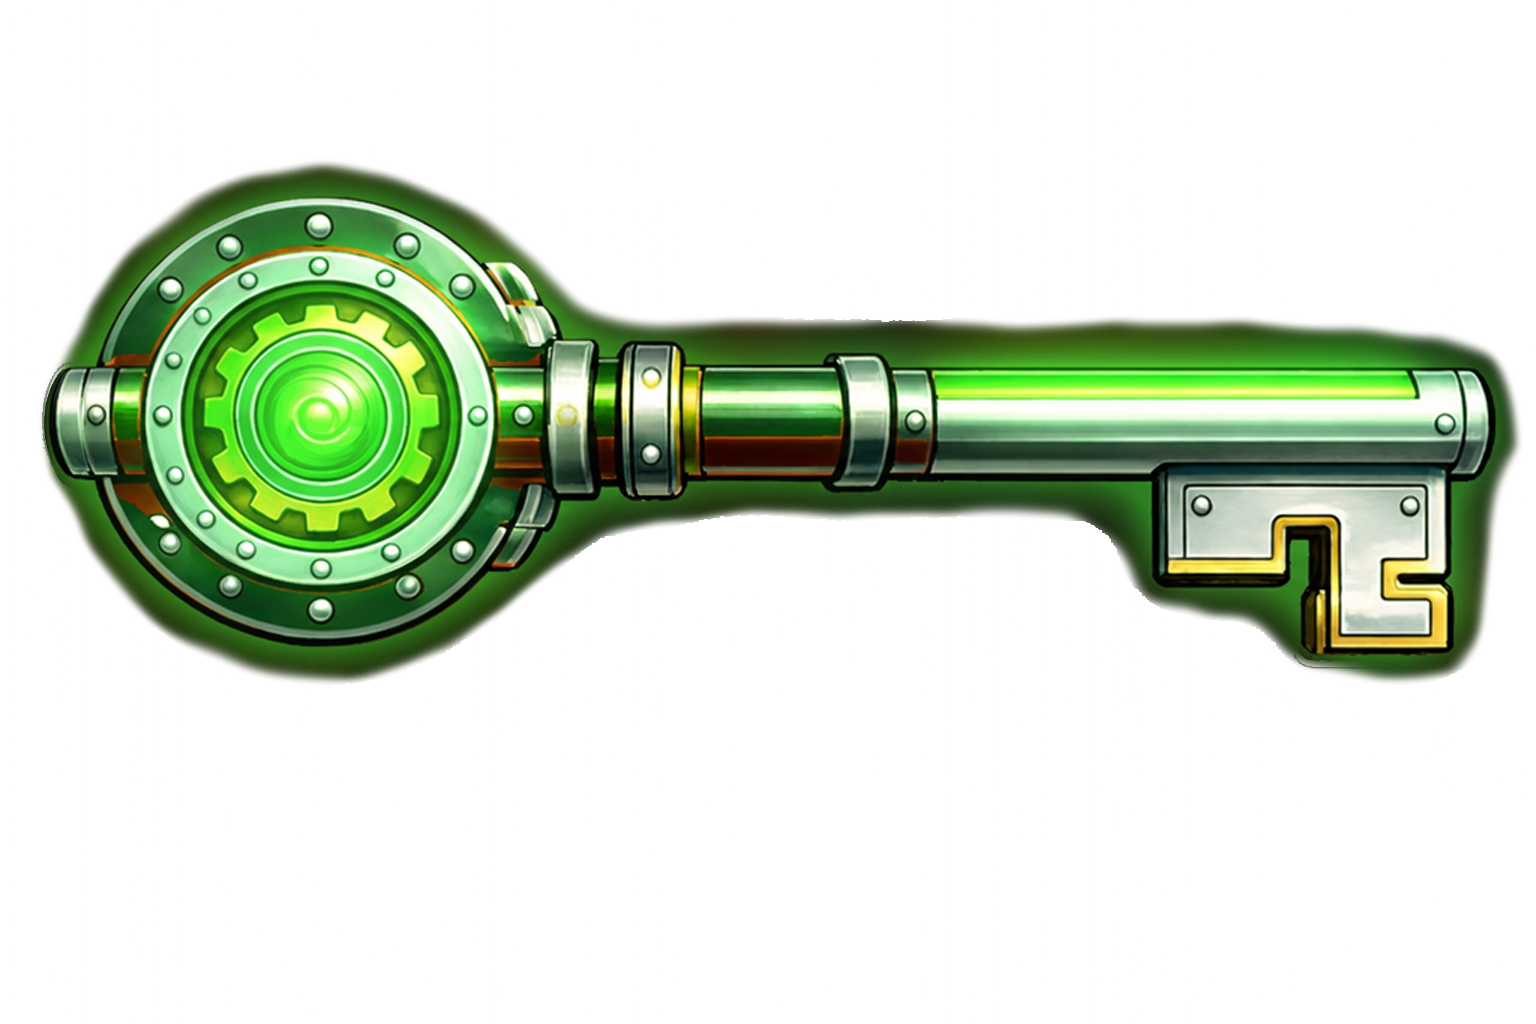
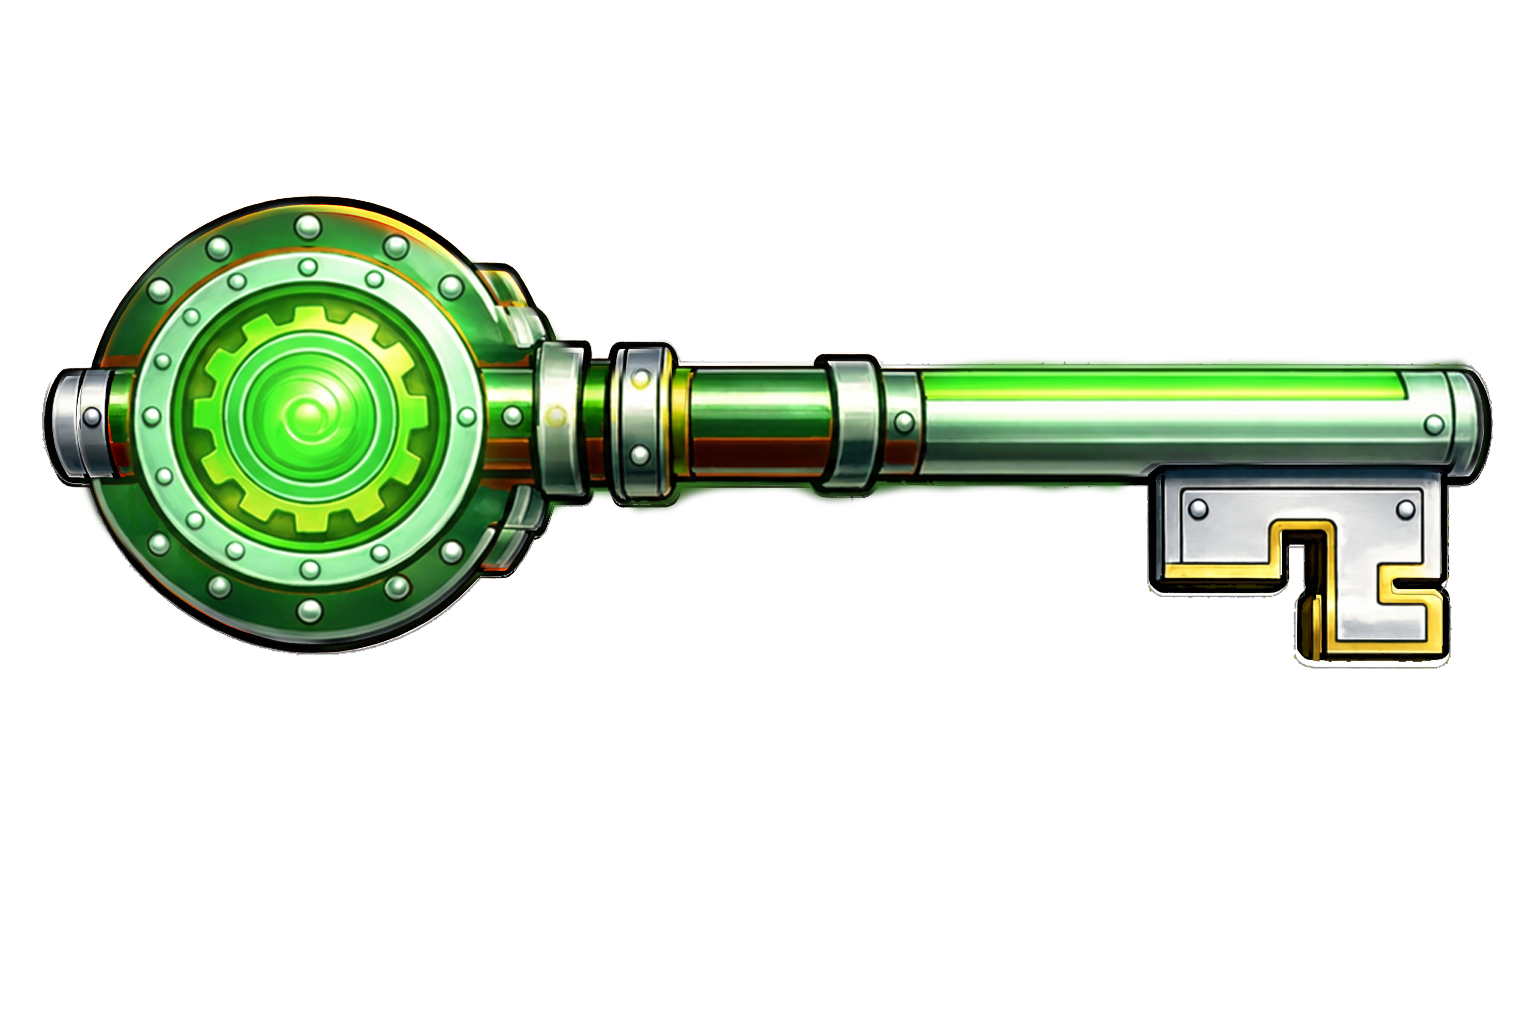
fix: key only between word and hints; remove key from vault; theme modal polish
- Remove key overlay from VaultLogo (key no longer on vault)
- Homepage: single key between word and first hint, uses getThemeKeyImage, click opens theme modal
- Theme modal: Un + lock only (no 'theme of the week'), subtitle 'Can you unlock the theme...', key 2x size

Changed region(s): [[0.0312, 0.1562, 1.0, 0.6875]]

diff --git a/client/src/components/VaultLogo.tsx b/client/src/components/VaultLogo.tsx
@@ -1,5 +1,4 @@
 import React, { useState, useEffect, useRef, useCallback } from 'react';
-import { getThemeKeyImage } from '../utils/themeMessages';
 
 // Vault unlock animation sequence (for 80%+ correct theme guesses)
 const VAULT_UNLOCK_SEQUENCE = [
@@ -56,8 +55,6 @@ interface VaultLogoProps {
   currentAnimationFrame?: string;
   // Toggle to show "Un" overlay text
   showUnText?: boolean;
-  // Show key overlay for theme access
-  showKey?: boolean;
   // For theme modal: trigger animation based on score
   animateForScore?: number | null;
   onScoreAnimationComplete?: () => void;
@@ -76,7 +73,6 @@ export const VaultLogo: React.FC<VaultLogoProps> = ({
   themeGuessData,
   currentAnimationFrame,
   showUnText = true,
-  showKey = false,
   animateForScore,
   onScoreAnimationComplete
 }) => {
@@ -364,24 +360,6 @@ export const VaultLogo: React.FC<VaultLogoProps> = ({
     transition: 'opacity 0.1s ease-in-out'
   };
 
-  const keyImage = showKey
-    ? getThemeKeyImage({
-        hasGuessedToday: themeGuessData?.hasGuessedToday,
-        isCorrectGuess: themeGuessData?.isCorrectGuess,
-        confidencePercentage: themeGuessData?.confidencePercentage ?? null,
-        highestConfidencePercentage: themeGuessData?.highestConfidencePercentage ?? null
-      })
-    : null;
-
-  const keyImageStyle: React.CSSProperties = {
-    position: 'absolute',
-    inset: 0,
-    width: '100%',
-    height: '100%',
-    objectFit: 'contain',
-    pointerEvents: 'none',
-    zIndex: 2
-  };
 
   // Match original UnPrefix text sizes - smaller, proportional to original diamond
   const getUnTextSize = () => {
@@ -509,22 +487,22 @@ export const VaultLogo: React.FC<VaultLogoProps> = ({
             0%, 100% {
               opacity: 1;
               transform: rotate(var(--cta-rotation, 0deg)) scale(1);
-              filter: brightness(1) drop-shadow(0 4px 10px rgba(26, 35, 126, 0.35));
+              filter: brightness(1);
             }
             25% {
               opacity: 0.95;
               transform: rotate(calc(var(--cta-rotation, 0deg) + 5deg)) scale(1.04);
-              filter: brightness(1.08) drop-shadow(0 6px 16px rgba(26, 35, 126, 0.45));
+              filter: brightness(1.08);
             }
             50% {
               opacity: 0.9;
               transform: rotate(var(--cta-rotation, 0deg)) scale(1.08);
-              filter: brightness(1.12) drop-shadow(0 8px 20px rgba(26, 35, 126, 0.55));
+              filter: brightness(1.12);
             }
             75% {
               opacity: 0.95;
               transform: rotate(calc(var(--cta-rotation, 0deg) - 5deg)) scale(1.04);
-              filter: brightness(1.08) drop-shadow(0 6px 16px rgba(26, 35, 126, 0.45));
+              filter: brightness(1.08);
             }
           }
           
@@ -583,15 +561,6 @@ export const VaultLogo: React.FC<VaultLogoProps> = ({
             style={imageStyle}
             draggable={false}
           />
-          {keyImage && (
-            <img
-              src={keyImage}
-              alt=""
-              aria-hidden="true"
-              style={keyImageStyle}
-              draggable={false}
-            />
-          )}
           {showUnText && (
             <span
               style={{

diff --git a/client/src/App.tsx b/client/src/App.tsx
@@ -24,6 +24,7 @@ import { BonusRoundInline, BonusGuessResult } from './components/BonusRoundInlin
 import { apiClient } from './api/client';
 import { usePlayer } from './hooks/usePlayer';
 import { getApiBaseUrl } from './utils/apiHelpers';
+import { getThemeKeyImage } from './utils/themeMessages';
 
 function App() {
   const {
@@ -659,6 +660,12 @@ function App() {
     ? Math.max(0, 6 - gameState.guesses.length) 
     : 0;
   const shouldShowThemeKey = gameState.isWon && !gameState.isArchivePlay;
+  const themeKeyImage = getThemeKeyImage({
+    hasGuessedToday: themeGuessData?.hasGuessedToday,
+    isCorrectGuess: themeGuessData?.isCorrectGuess,
+    confidencePercentage: themeGuessData?.confidencePercentage ?? null,
+    highestConfidencePercentage: themeGuessData?.highestConfidencePercentage ?? null
+  });
 
   return (
     <div
@@ -778,7 +785,6 @@ function App() {
             onClick={handleThemeClick} 
             themeGuessData={themeGuessData}
             gameComplete={gameState.isComplete}
-            showKey={shouldShowThemeKey}
             celebrateCompletion={celebrateDiamond}
             onCelebrationComplete={handleCelebrationComplete}
             bonusRoundActive={pendingBonusRound && !celebrateDiamond && !bonusRoundComplete}
@@ -1388,18 +1394,31 @@ function App() {
               </div>
 
               {/* Key reward - only for successful solves */}
-              {gameState.isWon && (
+              {shouldShowThemeKey && (
                 <div style={{ marginTop: '0.45rem' }}>
-                  <img
-                    src="/Key.png"
-                    alt=""
-                    draggable={false}
+                  <button
+                    type="button"
+                    onClick={handleThemeClick}
+                    aria-label="Open theme guess"
                     style={{
-                      width: 'clamp(3.2rem, 18vw, 4.2rem)',
-                      height: 'auto',
-                      display: 'inline-block'
+                      all: 'unset',
+                      cursor: 'pointer',
+                      display: 'inline-flex',
+                      alignItems: 'center',
+                      justifyContent: 'center'
                     }}
-                  />
+                  >
+                    <img
+                      src={themeKeyImage}
+                      alt=""
+                      draggable={false}
+                      style={{
+                        width: 'clamp(3.2rem, 18vw, 4.2rem)',
+                        height: 'auto',
+                        display: 'inline-block'
+                      }}
+                    />
+                  </button>
                 </div>
               )}
             </div>

diff --git a/client/src/components/ThemeGuessModal.tsx b/client/src/components/ThemeGuessModal.tsx
@@ -114,7 +114,7 @@ export const ThemeGuessModal: React.FC<ThemeGuessModalProps> = ({
   const LOCK_TEXT_MARGIN_LEFT = '-0.6rem';
   const HEADER_LINE_GAP_REM = 0.1;
   const KEY_REVEAL_DELAY_MS = 250;
-  const KEY_IMAGE_SIZE = 'clamp(3.2rem, 10vw, 4.4rem)';
+  const KEY_IMAGE_SIZE = 'clamp(6.4rem, 20vw, 8.8rem)';
 
   const playerId = getPlayerId();
   const [showScoringTooltip, setShowScoringTooltip] = useState(false);
@@ -590,7 +590,7 @@ export const ThemeGuessModal: React.FC<ThemeGuessModalProps> = ({
                 letterSpacing: '-0.02em',
                 lineHeight: 1
               }}>
-                lock the theme of the week
+                lock
               </span>
             </div>
             
@@ -614,14 +614,15 @@ export const ThemeGuessModal: React.FC<ThemeGuessModalProps> = ({
 
             {/* Instructions */}
             <div style={{
-              fontSize: '1.05rem',
+              fontSize: '1.2rem',
               color: '#6b7280',
               textAlign: 'center',
-              lineHeight: '1.65',
+              lineHeight: '1.7',
               fontFamily: 'var(--font-primary)',
-              marginTop: '0.35rem'
+              marginTop: '0.5rem',
+              fontWeight: 600
             }}>
-              What <span className="theme-semantic-shimmer">theme</span> connects this week's words?
+              Can you <span className="theme-semantic-shimmer">unlock the theme</span> that connects this week's words?
             </div>
           </div>
           <button
